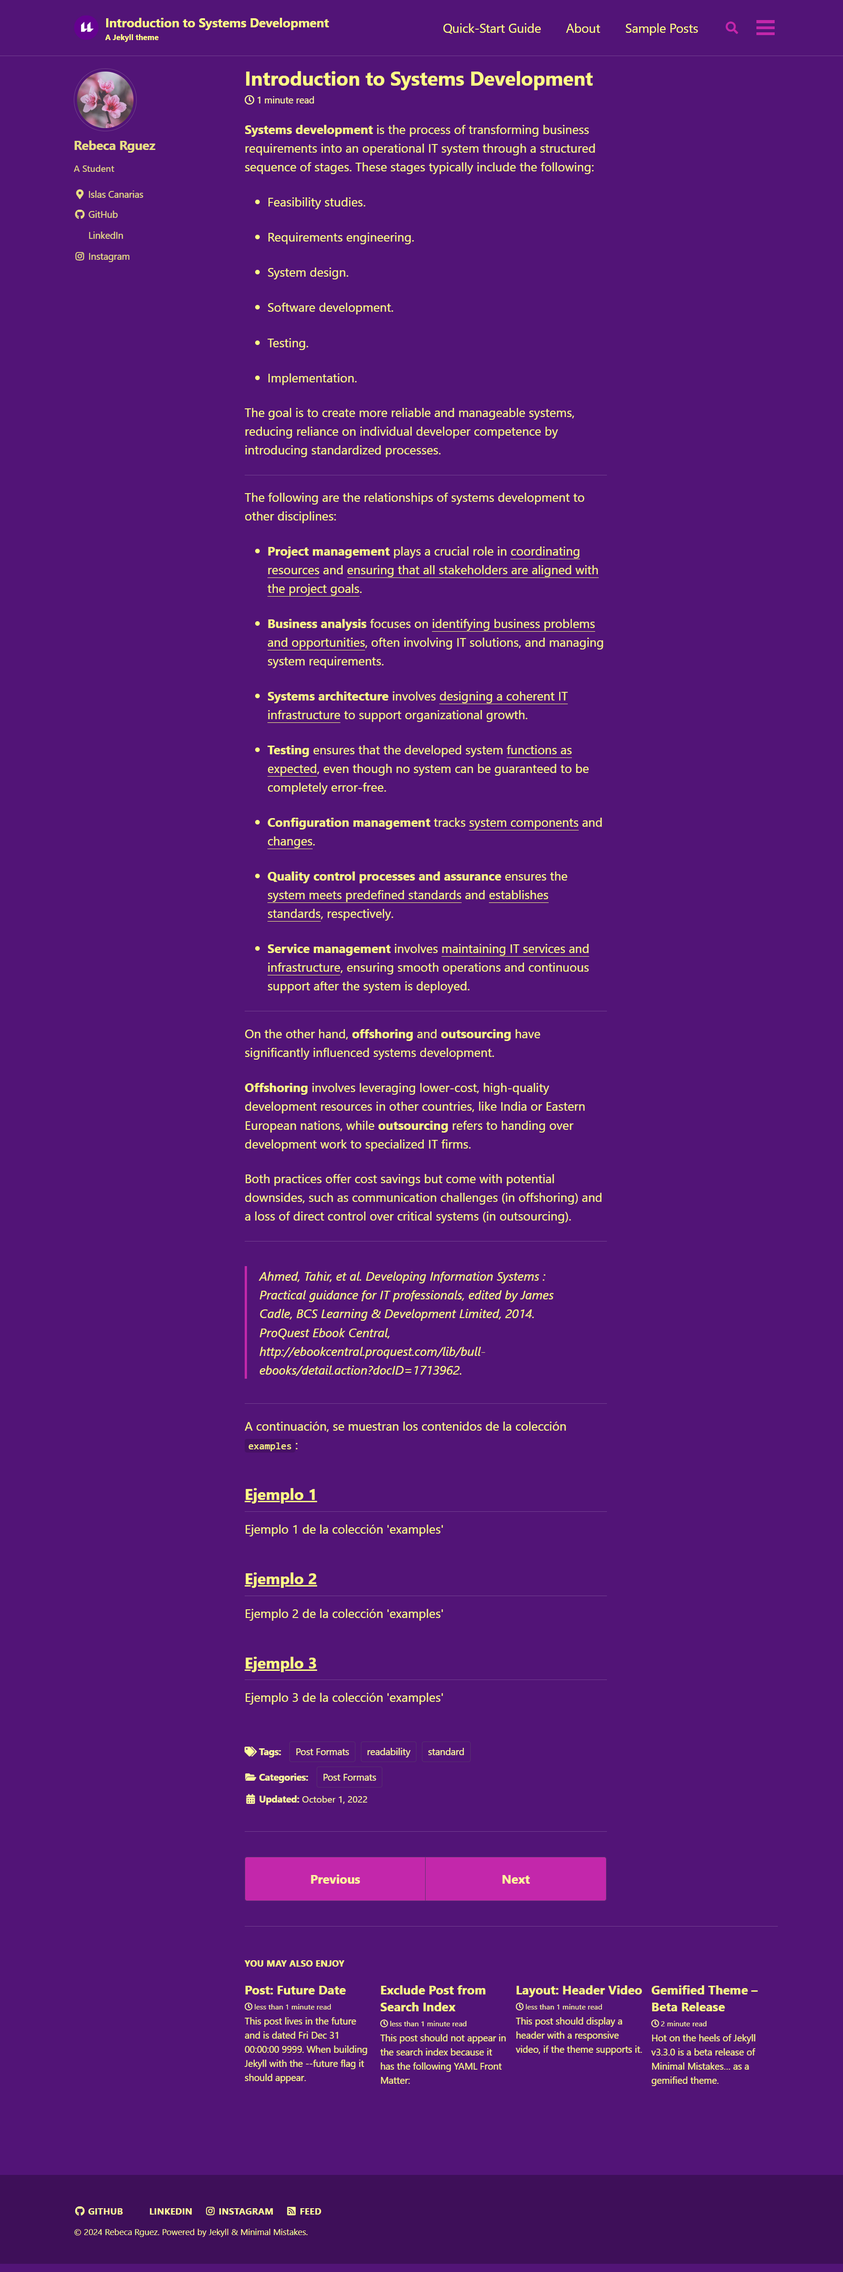
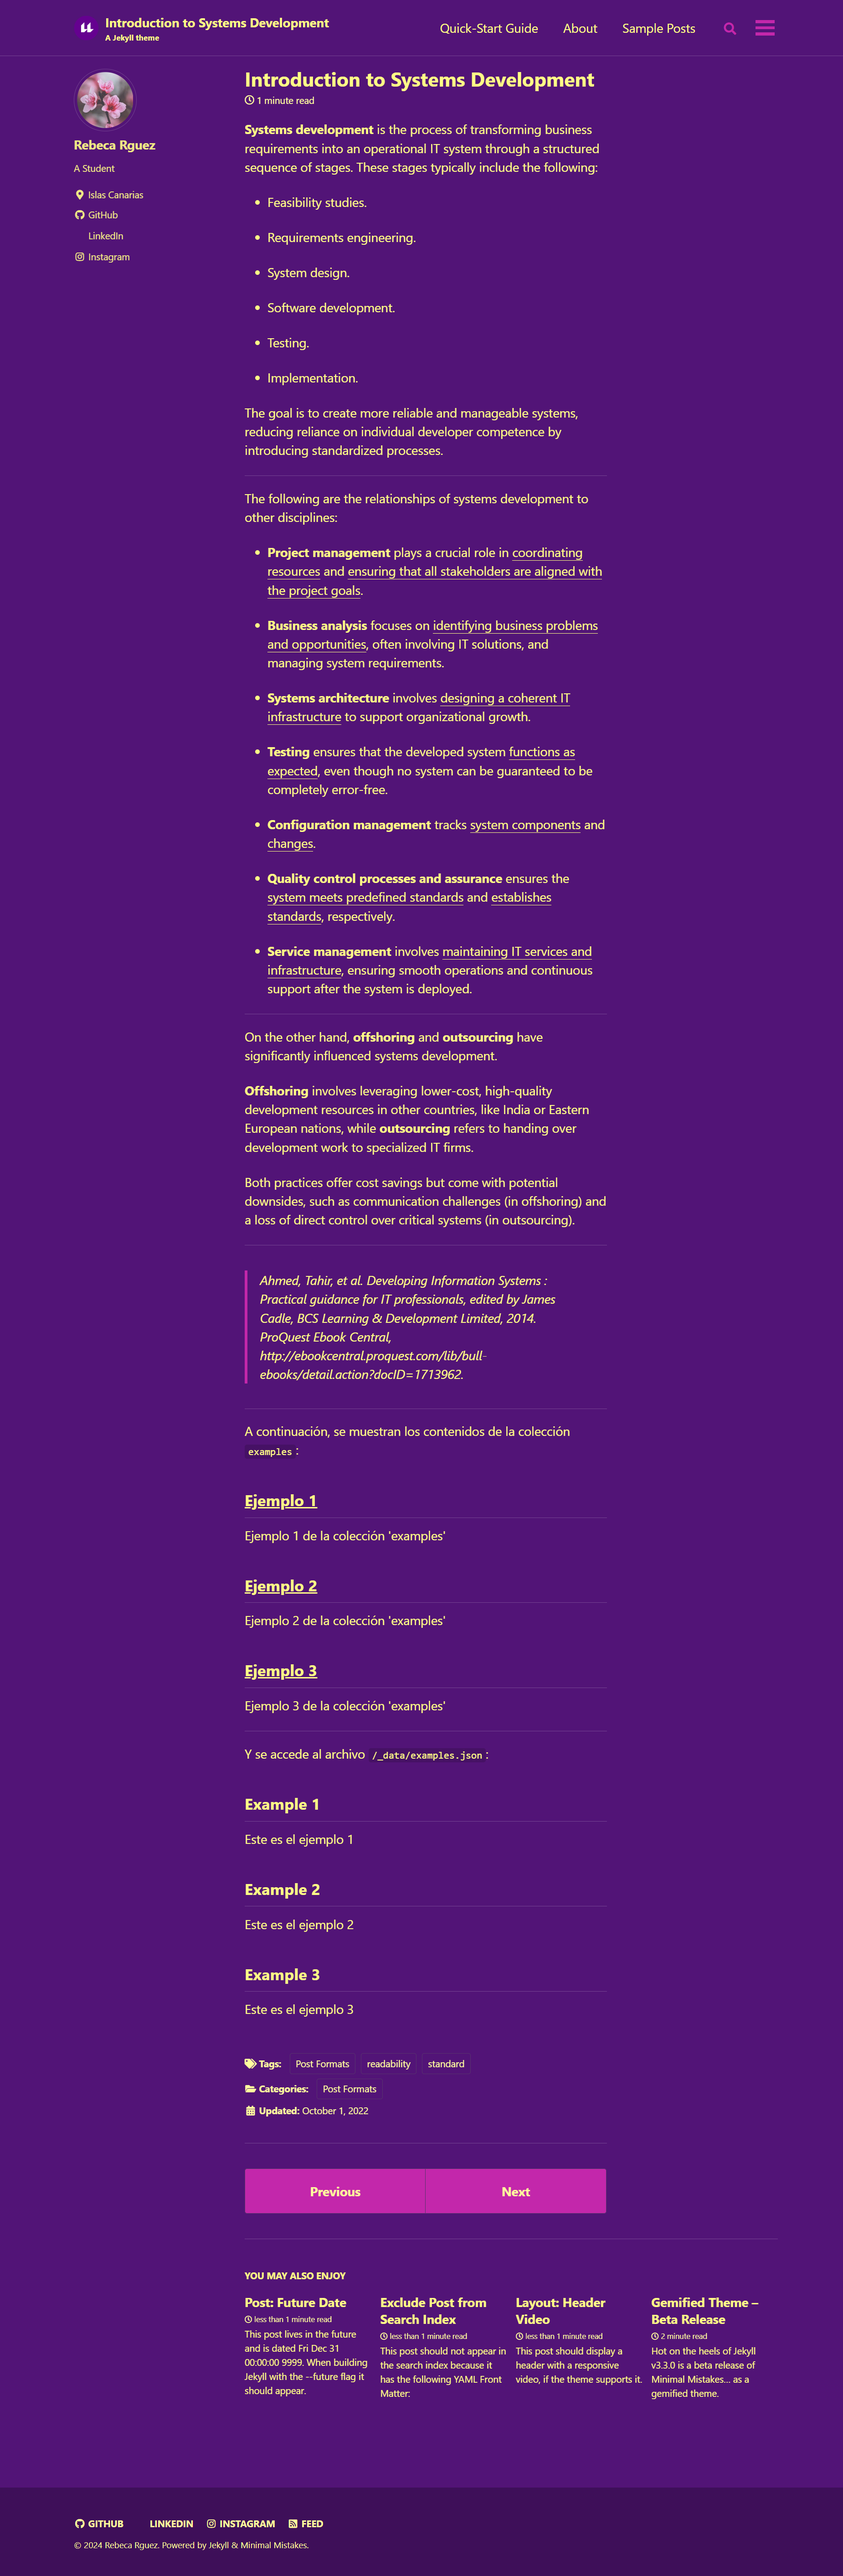
Añadido .json en _data y actualización de README.md

diff --git a/README.md b/README.md
@@ -79,8 +79,8 @@ Además, se le ha añadido el `permalink` "ejemplo", de forma que si se añade l
 
     ```liquid
     {% for example in site.examples %}
-    <h2><a href="{{ example.url }}">{{ example.title }}</a></h2>
-    <p>{{ example.description }}</p>
+        <h2><a href="{{ example.url }}">{{ example.title }}</a></h2>
+        <p>{{ example.description }}</p>
     {% endfor %}
     ```
 
@@ -89,6 +89,16 @@ Además, se le ha añadido el `permalink` "ejemplo", de forma que si se añade l
     ![Defaults](/img/defaults.PNG)
 
     Esto hará que, por defecto, los contenidos de la colección "examples" tengan el _layout_ `single`, que su autor sea `rrrguez`, y que pertenezcan a la categoría "Examples".
+
+4. Se ha añadido un archivo [`/_data/examples.json`](/_data/examples.json) que contiene un conjunto de datos de ejemplo.
+    Este archivo es accedido desde `/_posts/2022-10-01-informe.md` de la siguiente manera:
+
+    ```liquid
+    {% for example in site.data.examples %}
+        <h2>{{ example.name }}</h2>
+        <p>{{ example.description }}</p>
+    {% endfor %}
+    ```
 
 Una vez guardados estos cambios en el archivo `_config.yml`, se para y rearranca el servidor mediante el comando `rake serve`, obteniendo ahora la siguiente página:
 
@@ -121,3 +131,15 @@ Para realizar el despliegue, se han seguido los siguientes pasos:
 2. Creación de una cuenta en [Netlify](https://www.netlify.com).
 
 3. Conexión de mi cuenta con GitHub y selección del repositorio de la práctica, dando a Netlify la autorización requerida.
+
+### Personalización de la página `404.md`
+Se ha personalizado la página de error [`404.md`](/_pages/404.md) tomando como inspiración la descrita en los [apuntes](https://ull-mii-sytws.github.io/temas/web/jekyll-404.html).
+
+En este caso, se mostrará un mensaje de error y se mostrarán imágenes de perritos aleatorias obtenidas de [The Dog API](https://thedogapi.com). Por ejemplo:
+
+![The Dog API](/img/dog-api.png)
+
+### Página personal
+Con los conocimientos adquiridos en los pasos anteriores, se ha desarrollado una página personal en GitHub.
+
+Esta página ha sido enlazada desde mi perfil de GitHub, de forma que puede ser fácilmente accesible desde allí.

diff --git a/_posts/2022-10-01-informe.md b/_posts/2022-10-01-informe.md
@@ -64,3 +64,12 @@ A continuación, se muestran los contenidos de la colección `examples`:
   <h2><a href="{{ example.url }}">{{ example.title }}</a></h2>
   <p>{{ example.description }}</p>
 {% endfor %}
+
+---
+
+Y se accede al archivo `/_data/examples.json`:
+
+{% for example in site.data.examples %}
+  <h2>{{ example.name }}</h2>
+  <p>{{ example.description }}</p>
+{% endfor %}
